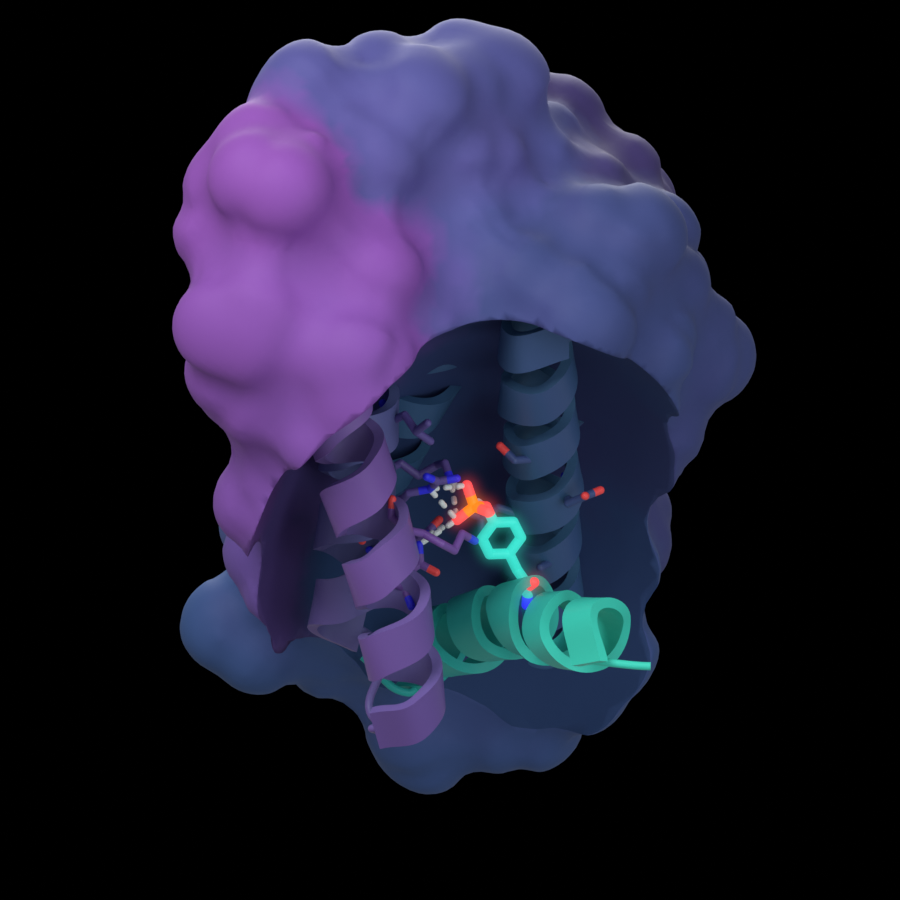
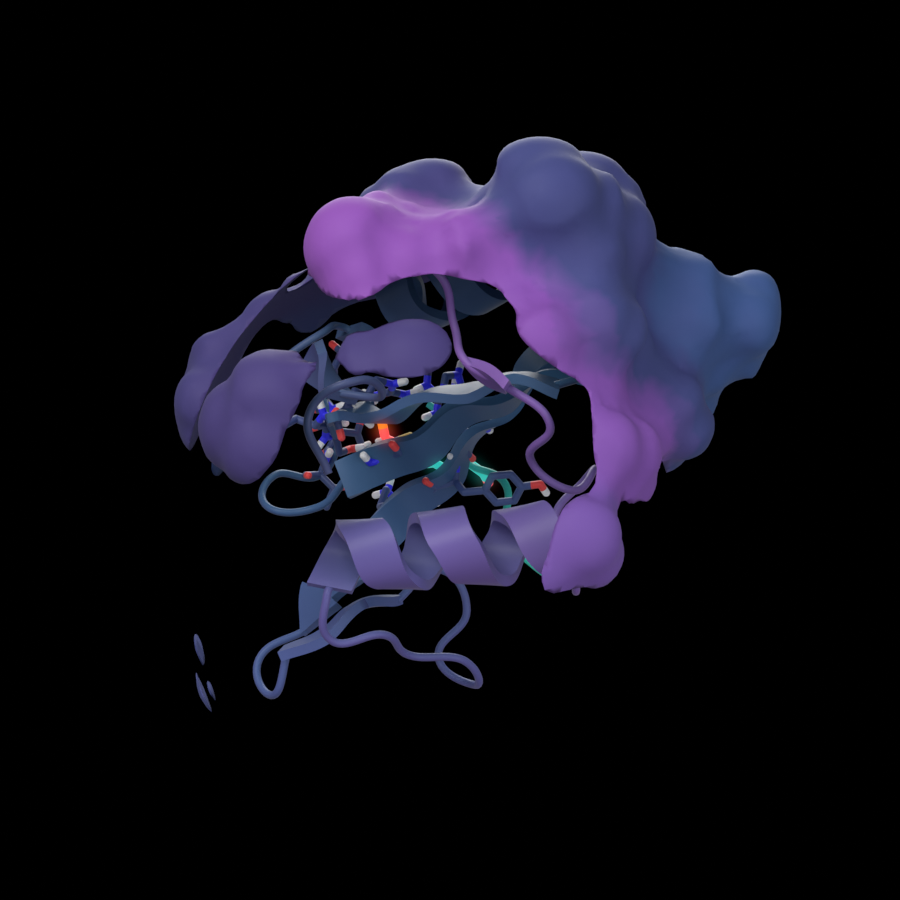
docs(presets): render Northern Nights previews from public 1SPS; use turntable examples

diff --git a/blender_render/presets.py b/blender_render/presets.py
@@ -42,7 +42,7 @@ _PRESETS = (
     ("northern_nights", "style_preset_northern_nights.json", "northern_nights.png",
      "Sequence-colored teal-blue-violet ribbons, mint chain B and atom-colored phosphoresidue glow on a bright background.", (), "clay"),
     ("northern_nights_cutaway", "style_preset_northern_nights_cutaway.json", "northern_nights_cutaway.png",
-     "Rounded STAT-style pocket cut with the violet-blue binder palette, teal-mint peptide and phosphoresidue glow on black.", (), "clay"),
+     "Rounded pocket cut with the violet-blue binder palette, teal-mint peptide and phosphoresidue glow on black.", (), "clay"),
 )
 DEFAULT_PRESET = IMAGE["preset"]
 PRESET_STYLE_FILENAMES = {row[0]: row[1] for row in _PRESETS}

diff --git a/README.md b/README.md
@@ -129,10 +129,7 @@ Choose one of the featured presets below with `--preset ID` in the CLI or
 for its complete editable JSON or a preview for the full image.
 
 A preset controls style; your structure and saved PyMOL pose determine its
-composition. Most gallery previews use public structures. The two Northern Nights
-previews use a prepared scene whose molecular source is not distributed; they
-illustrate the look rather than provide a reproducible public structure example.
-Some presets use specific chain or ligand selections, which may need adapting
+composition. Every gallery preview uses a public PDB structure. Some presets use specific chain or ligand selections, which may need adapting
 for another structure. See [preset details](docs/reference-presets.md) and the
 [gallery provenance](examples/presets/gallery.json) for sources and settings.
 
@@ -148,7 +145,7 @@ for another structure. See [preset details](docs/reference-presets.md) and the
 | [neon_duplex_hero](blender_render/style_preset_neon_duplex_hero.json) | Green protein and gradient nucleic acids against a pink-cyan background. | [<img src="examples/presets/neon_duplex_hero.png" alt="neon_duplex_hero preview" width="220">](examples/presets/neon_duplex_hero.png) |
 | [cyan_candy_mesh](blender_render/style_preset_cyan_candy_mesh.json) | Glossy cyan blobs, recessed blue mesh, and neon pink/yellow helical tubes. A/B surfaces, C/D tubes. | [<img src="examples/presets/cyan_candy_mesh.png" alt="cyan_candy_mesh preview" width="220">](examples/presets/cyan_candy_mesh.png) |
 | [northern_nights](blender_render/style_preset_northern_nights.json) | Teal-blue-violet ribbons, a mint peptide and glowing element-colored PTR. [Selection details](docs/reference-presets.md#northern-nights-bright-ribbons-and-dark-cutaway). | [<img src="examples/presets/northern_nights.png" alt="Northern Nights preview" width="220">](examples/presets/northern_nights.png) |
-| [northern_nights_cutaway](blender_render/style_preset_northern_nights_cutaway.json) | Rounded pocket cutaway, violet-blue binder and glowing PTR on black. [Rocking preview](examples/presets/northern_nights_cutaway_rock.gif). | [<img src="examples/presets/northern_nights_cutaway.png" alt="Northern Nights cutaway preview" width="220">](examples/presets/northern_nights_cutaway.png) |
+| [northern_nights_cutaway](blender_render/style_preset_northern_nights_cutaway.json) | Rounded pocket cutaway, violet-blue binder and glowing PTR on black. [Turntable preview](examples/presets/northern_nights_cutaway_turntable.gif). | [<img src="examples/presets/northern_nights_cutaway.png" alt="Northern Nights cutaway preview" width="220">](examples/presets/northern_nights_cutaway.png) |
 | [dried_paint_green](blender_render/style_preset_dried_paint_green.json) | Textured matte green paint with rounded ribbon edges. | [<img src="examples/presets/dried_paint_green.png" alt="dried_paint_green preview" width="220">](examples/presets/dried_paint_green.png) |
 
 ```sh
@@ -161,10 +158,10 @@ the cyan surface, C the pink tube, and D the yellow tube. Adapt the JSON
 selections for other structures. The [example preparation](docs/reference-presets.md#cyan-candy-mesh)
 explains the public 1QJB preview; loading unmodified 1QJB does not create its C/D selections.
 
-All presets also support `--animation rock` and `--animation 360`. Use
+All presets also support `--animation 360` (turntable) and `--animation rock`. Use
 `blender-render presets` to include your own saved presets in the catalog.
 
-## Rocking and 360° GIFs
+## Turntable and rocking GIFs
 
 Install FFmpeg with the `libx264` and GIF encoders on your PATH. On macOS:
 
@@ -175,10 +172,10 @@ brew install ffmpeg
 Then render with any built-in or saved preset:
 
 ```sh
-blender-render render examples/1sps_pose.pse --animation rock --rock-angle 12 \
-  --duration 3 --fps 24 --gif --width 640 --height 480 -o renders/rock.png
 blender-render render examples/1sps_pose.pse --animation 360 \
   --duration 6 --fps 24 --gif --width 640 --height 480 -o renders/spin.png
+blender-render render examples/1sps_pose.pse --animation rock --rock-angle 12 \
+  --duration 3 --fps 24 --gif --width 640 --height 480 -o renders/rock.png
 ```
 
 Each animation writes PNG, MP4 and lossless `.frames.zip` files beside the requested
@@ -213,7 +210,7 @@ The adapter exports enabled objects, transforms, colors, secondary structure and
 camera, calls local Blender through the configured Python, then loads the PNG into
 PyMOL. Rendering is synchronous. `width`, `height`, `samples`, `rough`, `save_blend`,
 `color_follow`, `preserve_view`, `blender_exe` and `timeout` are optional arguments.
-For animations, add `animation=rock` or `animation=360`, `gif=1`, `duration`, `fps`
+For animations, add `animation=360` (turntable) or `animation=rock`, `gif=1`, `duration`, `fps`
 and (for rocking) `rock_angle`. Optional movie preview needs Pillow installed in
 PyMOL's Python; for the repo-local Pixi environment:
 
@@ -222,8 +219,8 @@ pixi add --manifest-path .runtime/pymol/pixi.toml pillow
 ```
 
 ```pymol
-blender_render animation=rock, gif=1, width=640, height=480, output_name=rock.png
-blender_movie_export filename=rock-again.gif
+blender_render animation=360, gif=1, width=640, height=480, output_name=spin.png
+blender_movie_export filename=spin-again.gif
 ```
 
 Movie preview replaces PyMOL's current movie timeline when supported; `auto_preview=0`

diff --git a/docs/reference-presets.md b/docs/reference-presets.md
@@ -93,10 +93,8 @@ All controls use the existing schema and scene builder. Unsupported keys, zero g
 ## Evidence
 
 [Gallery metadata](../examples/presets/gallery.json) retains provenance,
-preset hashes, views, sizes and image hashes. Public examples include coordinate
-URLs/hashes. The Northern Nights previews are prepared-scene illustrations whose
-molecular source files are not distributed; they are labeled separately from
-public structure examples.
+preset hashes, views, sizes and image hashes. Every example uses a public PDB
+entry and records its coordinate URL and hash.
 
 Use the configured Molecular Nodes environment and pinned CCD. A successful
 local render does not by itself verify image display in Claude or Codex.
@@ -135,26 +133,35 @@ Two presets provide related bright and dark looks:
 - `northern_nights_cutaway`: a rounded pocket opening and black background,
   using a violet–blue–purple binder palette and teal-to-mint peptide gradient.
 
-Try the ribbon palette on the bundled public 1SPS structure:
+Both previews use public **1SPS** (Src SH2 domain bound to the pY peptide
+pQpYEEIP), from the bundled `examples/1sps.cif`. The file holds three copies of
+the complex; the previews keep biological assembly 1, which is SH2 chain A with
+peptide chain D (author chain IDs). Chain D was relabeled B to match the presets'
+peptide selection, and coordinates were not moved. The camera is PyMOL's
+load-time view of the deposited coordinates: no `orient`, only `zoom` with a
+2 angstrom buffer. Build the same pose in PyMOL:
 
-```sh
-blender-render render examples/1sps.cif --preset northern_nights --rough -o renders/northern-public.png
+```python
+cmd.load("examples/1sps.cif", "structure")
+cmd.remove("not (chain A+D)")
+cmd.alter("chain D", 'chain="B"')
+cmd.hide("everything"); cmd.show("cartoon", "polymer"); cmd.show("sticks", "organic")
+cmd.zoom("all", buffer=2)
+cmd.save("1sps_assembly1.pse")
 ```
 
-The gallery's phosphoresidue close-up and pocket opening require an appropriate
-prepared complex. The two preview images illustrate that composition, but their
-source scene is not distributed. For your own complex, prepare the selections
-and camera before rendering:
-
 ```sh
-# Keep your prepared input camera:
-blender-render render prepared-pose.pse --preset northern_nights -o bright.png
-blender-render render prepared-pose.pse --preset northern_nights_cutaway -o cutaway.png
+blender-render render 1sps_assembly1.pse --preset northern_nights -o bright.png
+blender-render render 1sps_assembly1.pse --preset northern_nights_cutaway -o cutaway.png
 # Select the authored PTR close-up framing (27 angstrom orthographic extent):
-blender-render render prepared-pose.pse --preset northern_nights --no-preserve-view -o detail.png
-# Optional camera rocking, not a molecular trajectory:
-blender-render render prepared-pose.pse --preset northern_nights_cutaway --animation rock --gif -o rocking.png
+blender-render render 1sps_assembly1.pse --preset northern_nights --no-preserve-view -o detail.png
+# Optional camera turntable, not a molecular trajectory:
+blender-render render 1sps_assembly1.pse --preset northern_nights_cutaway --animation 360 --gif -o turntable.png
 ```
+
+Rendering `examples/1sps.cif` directly is different: the CLI orients the whole
+file, so all three copies appear and protein chain B takes the peptide colors.
+For your own complex, prepare the selections and camera the same way.
 
 In PyMOL, select `preset=northern_nights` or `preset=northern_nights_cutaway`.
 These presets select chain B as the peptide. Adapt the chain palette and all

diff --git a/plugins/structure-studio/skills/structure-studio/references/presets.md b/plugins/structure-studio/skills/structure-studio/references/presets.md
@@ -21,7 +21,7 @@ General presets work on any structure. Chain-specific presets select chain IDs f
 | `mint_sky_assembly` (default) | Mint and sky protein assembly with purple and pink nucleic acids. | 1600×900, 128 samples | chains BP1,DP1, L,M,N | 8AA5 |
 | `neon_duplex_hero` | Green protein and gradient nucleic acids against a pink-cyan background. | 1600×900, 128 samples | any structure | 7PZB |
 | `cyan_candy_mesh` | Glossy cyan surfaces and recessed mesh with vivid pink/yellow helical tubes; A/B surfaces, C/D tubes. | 840×650, 128 samples | chains A, B, C, D | 1QJB |
-| `northern_nights` | Sequence-colored teal-blue-violet ribbons, mint chain B and atom-colored phosphoresidue glow on a bright background. | 900×900, 96 samples | chains B | Prepared scene (source not distributed) |
-| `northern_nights_cutaway` | Rounded STAT-style pocket cut with the violet-blue binder palette, teal-mint peptide and phosphoresidue glow on black. | 900×900, 96 samples | chains B | Prepared scene (source not distributed) |
+| `northern_nights` | Sequence-colored teal-blue-violet ribbons, mint chain B and atom-colored phosphoresidue glow on a bright background. | 900×900, 96 samples | chains B | 1SPS |
+| `northern_nights_cutaway` | Rounded pocket cut with the violet-blue binder palette, teal-mint peptide and phosphoresidue glow on black. | 900×900, 96 samples | chains B | 1SPS |
 
 On CPU-only machines `studio.py render` caps the long edge at 1280 px and samples at 64 unless `--full-quality` or explicit `--width/--height/--samples` are given.

diff --git a/docs/animation.md b/docs/animation.md
@@ -30,7 +30,7 @@ quantized to 10 ms; use MP4 when precise frame timing matters.
 Any valid preset can include the same controls under `output.animation`:
 
 ```json
-{"mode": "rock", "duration": 3, "fps": 24, "rock_angle": 12, "gif": true}
+{"mode": "360", "duration": 6, "fps": 24, "gif": true}
 ```
 
 This is the value of `output.animation`, not a complete style. The rest of the
@@ -78,7 +78,7 @@ verified animation. FFmpeg must be on the invoking process's PATH. The CLI works
 without a PyMOL GUI.
 
 Claude/Codex can use the same CLI or call stdio MCP `render_structure` with
-`animation="rock"`, `gif=true`, and optional duration, FPS, dimensions and samples.
+`animation="360"`, `gif=true`, and optional duration, FPS, dimensions and samples.
 The response includes movie file paths. `read_render` is still the PNG inspection
 tool; movie playback depends on the client's support for local media files.
 

diff --git a/docs/local-worker.md b/docs/local-worker.md
@@ -22,7 +22,7 @@ Explicitly choose `warm=1`:
 ```pymol
 blender_render warm=1, width=640, height=480, samples=32, output_dir=renders, output_name=first.png
 blender_render warm=1, preset=dried_paint_green, output_dir=renders, output_name=paint.png
-blender_render warm=1, animation=rock, duration=2, fps=12, gif=1, output_dir=renders, output_name=rock.png
+blender_render warm=1, animation=360, duration=2, fps=12, gif=1, output_dir=renders, output_name=spin.png
 ```
 
 The first request starts the worker; subsequent requests reuse it. Rendering is

diff --git a/docs/shared-cluster.md b/docs/shared-cluster.md
@@ -126,7 +126,7 @@ original job running and never submits another one.
 Animation controls work as they do locally:
 
 ```pymol
-blender_render cluster=lab, animation=rock, duration=2, fps=12, gif=1, width=640, height=480, samples=16, output_name=rock.png
+blender_render cluster=lab, animation=360, duration=2, fps=12, gif=1, width=640, height=480, samples=16, output_name=spin.png
 ```
 
 Omit `cluster=lab` to render locally. Custom styles and saved local presets are
